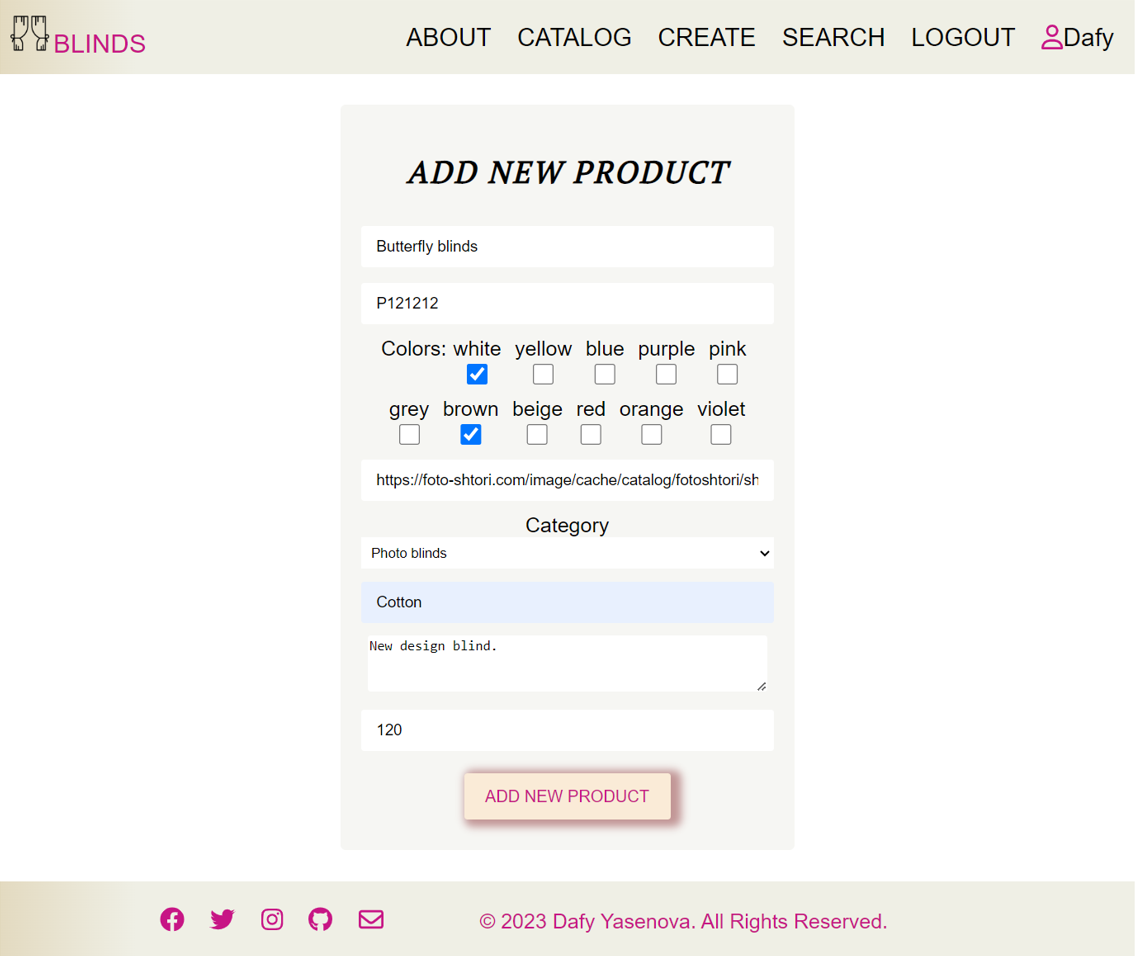
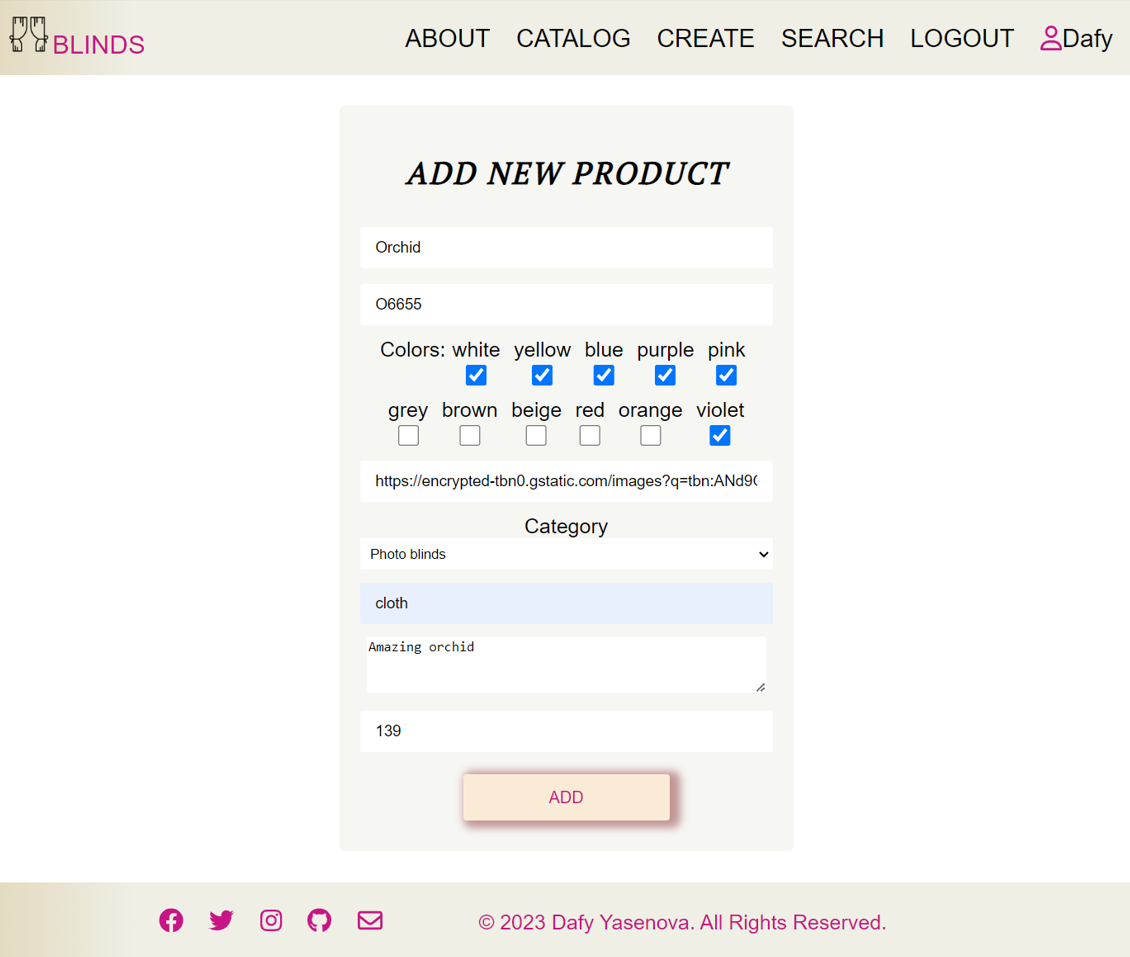
change view

diff --git a/client/src/components/Profile/Profile.jsx b/client/src/components/Profile/Profile.jsx
@@ -22,7 +22,8 @@ export default function Profile() {
  <span></span>{username}'s profile<p>email: {email}</p></h2>
  
             <div className={stylesProfile.profile}>
-               {myPost.length> 0 && <h2>Have a {myPost.length} post!</h2>} 
+               {myPost.length> 0 && 
+               (myPost.length == 1 ?<h2>Have {myPost.length} post! </h2>: <h2>Have {myPost.length} posts!</h2> )}
                 {myPost.length > 0 
                 ? <div >
                     <ul className={styles["blind-wrapper"]}>

diff --git a/client/src/components/Create/Create.jsx b/client/src/components/Create/Create.jsx
@@ -152,7 +152,7 @@ export default function Create() {
                     {errors.price && <p className={styles["error-message"]}>{errors.price}</p>}
 
 
-                    <button type="submit">Add new product</button>
+                    <button type="submit">Add</button>
 
                 </form>
             </div>

diff --git a/client/src/components/Create/Create.module.css b/client/src/components/Create/Create.module.css
@@ -6,7 +6,6 @@
   margin: auto;
   margin-top: 30px;
   margin-bottom: 30px;
-
   padding: 20px;
   text-align: center;
   border-radius: 5px;
@@ -65,6 +64,7 @@ margin-bottom: 10px;
 .form button:hover {
   background: mediumvioletred;
   color: antiquewhite;
+  
 }
 
 
